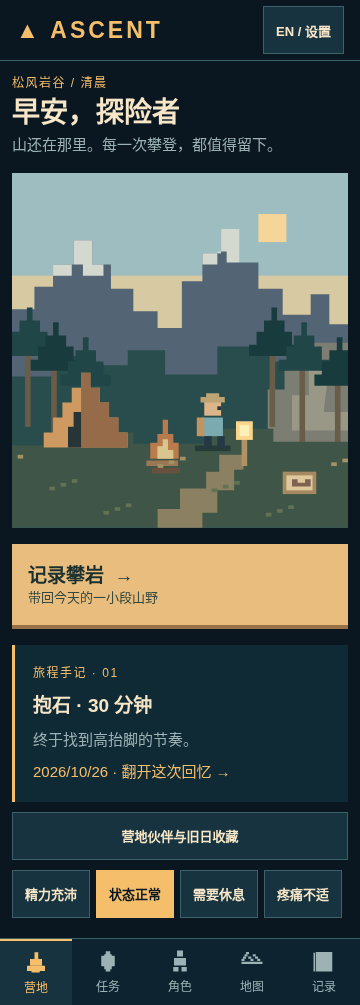
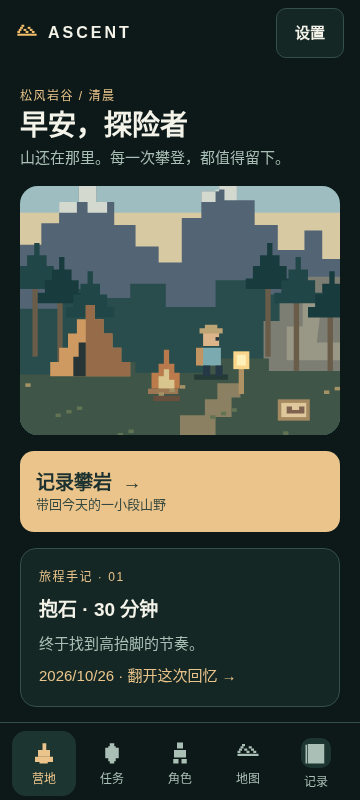
docs: document app-wide UI review and phone viewport evidence

diff --git a/docs/UI_REVIEW.md b/docs/UI_REVIEW.md
@@ -1,0 +1,97 @@
+# ASCENT mobile UI review
+
+## What was wrong
+
+The previous presentation gave nearly every button, filter, selected state and
+record action the same weight. Dense borders, small secondary text and competing
+headers made the app feel assembled from separate features. The journal's save
+button disappeared below a long form; entering the app led straight into a five
+question assessment; settings were a stack of action buttons; companions required
+finding small scene hotspots. Detail pages used narrow framed popups even for
+long forms. These are layout and interaction problems, not just palette issues.
+
+## Direction and scope
+
+Keep the original morning pixel valley and explorer identity. Use native,
+readable surfaces around that world: deep pine/ink, warm paper text, muted sage,
+and one brass/gold primary action. We are applying common mobile interaction
+patterns, not copying a competitor's artwork or claiming equivalent usability.
+
+Shared rules: 20dp page margins, 18dp surface padding, 16–18dp gaps, 16sp body
+copy, 14sp secondary text with 22sp line height, 30sp page titles and 19–22sp
+section titles. Text uses system fonts and remains scalable. Short English
+location labels are decorative; core controls remain Chinese/English localized.
+Buttons distinguish primary, secondary, quiet, choice and destructive tones.
+Choices use sage and selected-state semantics; gold is reserved for main actions.
+Action controls are at least 50dp tall, segmented controls 48dp, input fields
+52dp and navigation items 64dp. Long labels may wrap. Touch targets and actual
+font scaling still require Android device checks.
+
+### Screen changes
+
+| Surface | Resulting behavior |
+| --- | --- |
+| Welcome / assessment | Name + enter camp is the first screen. Self-assessment is optional; its five questions have progress and equal-width choices. Existing profiles bypass welcome. |
+| Camp | Shorter panoramic world keeps the record action and recent memory higher on the page. Supporting links and readiness follow instead of competing with the scene. |
+| Navigation | Stable five tabs, clear active pill and labeled icons. Settings is a plainly named entry instead of a mixed language/settings action. |
+| Recording | Activity and duration selections are grouped; notes are multiline; optional parameters stay expandable. A persistent save footer stays outside the scrolling form. Keyboard events hide bottom navigation. Inline validation/storage errors are echoed beside save. |
+| History / completion | Consistent spacious detail surface, readable records and summaries. Existing edit/delete, actual rewards and camp return remain wired to real storage. |
+| Commissions | Today/week/history segmented navigation, distinct card hierarchy, readable progress and explanatory empty state. Accept/record is the primary action in detail. |
+| Explorer | Compact identity card, segmented sections, attributes on two-line rows rather than five cramped columns. Skills/badges use spaced surfaces; outfit explains the current look with the existing character art. |
+| Map / route collection | Clear page purpose and map/collection navigation; route empty state gives a next step. Route editing groups identity, attempt and optional beta/media. |
+| Notebook / coach | Shared surfaces and control hierarchy, main experiment/review actions distinguished from selection and delete. API region/model fields expand separately from ordinary key entry. Saved advice and offline outcome controls remain first. |
+| Settings | Grouped setting rows with current values, language selection, separate coach/key management. |
+| Companions / collections | Familiar morning world plus labeled, full-width companion rows. Pack, stories, trail signs, commissions and explorer links remain accessible. Placed items remain visible; collection/story dialogs use the same readable surfaces. |
+| Detail screens | Full-width, tall native modal surfaces with a persistent heading/close control and independently scrollable body; no decorative gold frame around long forms. Reduced-motion preference disables modal fades and reward spring. |
+
+No profile, journal, XP, quest, route, language, notebook or key storage schema was
+reset. Existing reward and pain protection rules are unchanged. There are no new
+native dependencies or external assets in this UI change.
+
+## Runtime previews
+
+These are **browser renders of the actual React Native components**, not Android
+captures or concept mockups. Storage, media, secure keys, audio and provider calls
+are substituted in the browser harness. The notebook answer example is scripted.
+The browser root is fixed to the viewport so the navigation/footer behavior can
+be checked, rather than expanding the entire app into a long web document.
+
+| Main pages | Preview |
+| --- | --- |
+| Welcome | ![Welcome](evidence/ui-welcome-web.png) |
+| Camp | ![Camp](evidence/ui-camp-web.png) |
+| Commissions | ![Commissions](evidence/ui-quests-web.png) |
+| Explorer | ![Explorer](evidence/ui-hero-web.png) |
+| Map | ![Map](evidence/ui-map-web.png) |
+| Journal with persistent save | ![Journal](evidence/ui-journal-web.png) |
+| Settings | ![Settings](evidence/ui-settings-web.png) |
+
+Further previews in `evidence/`: `ui-completion-web`, `ui-routes-web`,
+`ui-route-editor-web`, `ui-skills-web`, `ui-outfit-web`, `ui-badges-web`,
+`ui-companions-web`, `ui-notebook-web`, and `ui-key-settings-web` (all `.png`).
+Matching `ui-compact-…` files show the 320×720 walkthrough. The updated
+`climb-next-step-web-preview.png` shows a saved notebook cue in the shared UI.
+
+## Verification
+
+- `npm run check`: TypeScript and all 16 progression, provider and notebook tests
+  passed. Final styling refinements also passed TypeScript.
+- Browser walkthrough at **360×800 and 320×720**: welcome → camp; all five tabs;
+  record/save/completion; settings; route collection and editor; explorer skills,
+  outfit and badges; companions; notebook; key setup and profile persistence.
+- Compact notebook/key screen check found no interactive elements outside the
+  viewport horizontally. This is not a blanket guarantee for every possible
+  content length or Android font scale.
+- Notebook regression: offline outcome → simulated advice → correction/outcome →
+  next request carrying feedback → today's review → reload and find saved data.
+- Persistent-footer regression passed: failed write retains input; retry and
+  double-click save exactly one record; completion remains visible; reload keeps
+  the linked camp memory and recall opens the actual record. Receipt actions
+  have a 250ms touch guard to prevent the second save tap dismissing the new
+  feedback surface. Successful save dismisses the keyboard.
+
+Still unverified: Android keyboard resize/insets and system back, TalkBack focus,
+large system font sizes, real camera/media/Keystore/audio, device performance and
+native persistence through process death. No Android screenshots or recording
+are claimed. User preference and usability must be judged by using the installable
+version; the screenshots and passing tests cannot establish those outcomes.

diff --git a/docs/ART_DIRECTION.md b/docs/ART_DIRECTION.md
@@ -10,13 +10,13 @@
   paragraphs must remain high contrast and comfortably tappable.
 
 ## Palette
-- Midnight: `#0A1720`
-- Navy panel: `#102A35`
-- Ridge teal: `#16333F`
-- Explorer gold: `#F5BE6B`
-- Cream text: `#F7E7C8`
-- Mountain mint: `#68D4B5`
-- Lake blue: `#6CAFDA`
+- Midnight: `#0C1918`
+- Navy panel: `#142724`
+- Ridge teal: `#1D3530`
+- Explorer gold: `#EAC48B`
+- Cream text: `#F4F3E9`
+- Mountain mint: `#A5D5BA`
+- Lake blue: `#9BBFCB`
 
 ## Asset decisions
 - Original, project-owned scalable art uses a pixel-aligned `react-native-svg` scene:
@@ -67,3 +67,14 @@ Sound starts muted (explicitly enabled in Settings), mixes rather than ducks
 personal music, and pauses on background or leaving camp. Completion uses a
 save cue, one success haptic, then a short arrival cadence. Preferences persist
 separately from profile data. OS reduced-motion preference is always respected.
+
+## App-wide interface rules
+
+The world retains rectilinear pixel artwork; interaction surfaces use quiet native
+geometry and system Chinese text. Rounded panels do not change the scene's pixel
+grid. Selection uses sage with a visible state; a brass primary action is reserved
+for the next meaningful step. Do not style filters like save buttons. Use the
+shared primitives in `src/UI.tsx` and palette/type/spacing tokens in `src/theme.ts`.
+Companions are readable labeled rows below the world illustration, rather than
+requiring precise taps on decorative scenery. Long detail forms use a full-width
+reading surface. See `UI_REVIEW.md` for screen coverage and runtime evidence.
